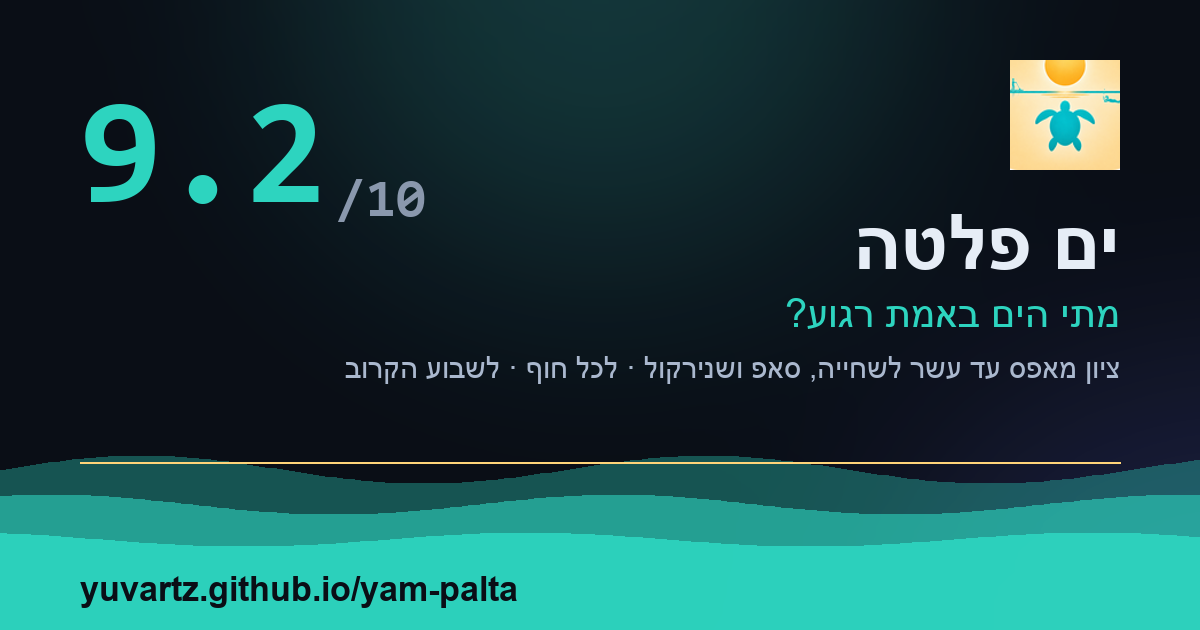
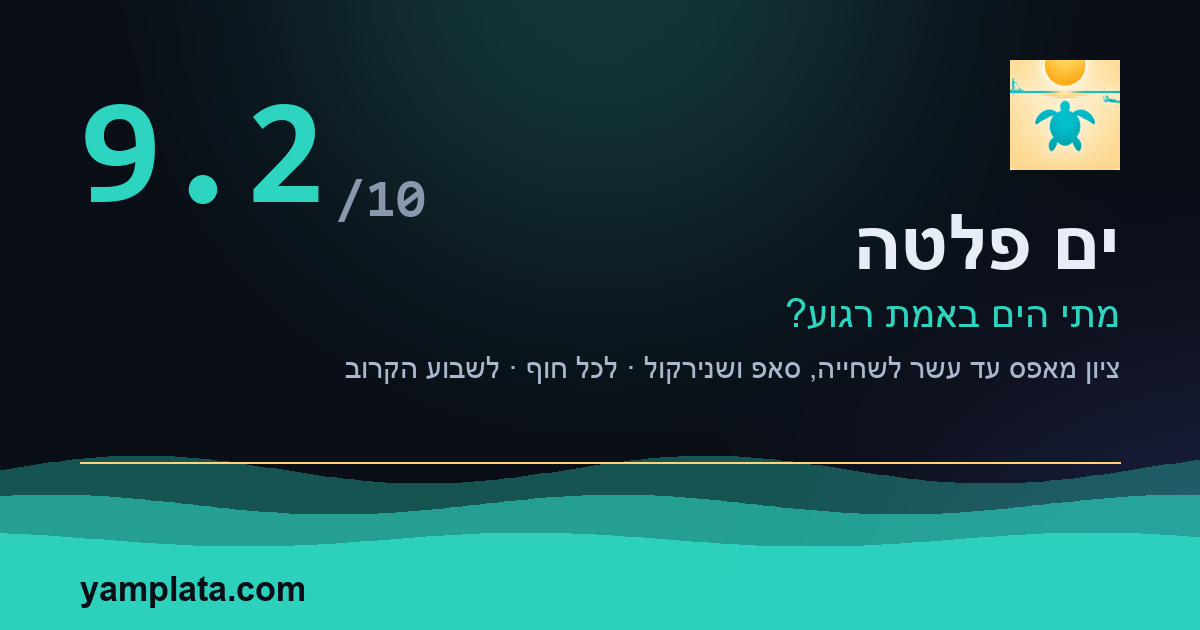
Move to yamplata.com: CNAME, canonical/OG/JSON-LD, sitemap, robots, manifest id, stamp text, og-image
scripts/set-domain.py yamplata.com applied (script now skips removed files);
Worker APP_URL/ALLOWED_ORIGINS updated for the new origin; build/SW v16.

Changed region(s): [[0.0925, 0.9048, 0.4317, 0.9651]]

diff --git a/docs/index.html b/docs/index.html
@@ -6,7 +6,7 @@
   <title>ים פלטה — מתי הים באמת רגוע? מדד שחייה לחופי ישראל</title>
   <meta name="description" content="ים פלטה: מדד 0–10 שאומר אם הים שטוח ורגוע לשחייה, סאפ ושנירקול — עכשיו ובשבוע הקרוב. תחזית גלים, רוח, טמפ׳ מים, מצוף חדרה ודיווחי מדוזות לכל חוף בישראל, סיני ויוון." />
   <meta name="keywords" content="ים פלטה, ים שטוח, תחזית ים, גלים, שחייה בים, סאפ, שנירקול, טמפרטורת מים, מדוזות, תל אביב, חוף" />
-  <link rel="canonical" href="https://yuvartz.github.io/yam-palta/" />
+  <link rel="canonical" href="https://yamplata.com/" />
   <meta name="color-scheme" content="dark" />
 
   <meta property="og:site_name" content="ים פלטה" />
@@ -14,17 +14,17 @@
   <meta property="og:title" content="ים פלטה — מתי הים באמת רגוע?" />
   <meta property="og:description" content="מדד 0–10 שאומר אם הים שטוח מספיק לשחייה, סאפ ושנירקול — עכשיו ובשבוע הקרוב, לכל חוף בישראל." />
   <meta property="og:type" content="website" />
-  <meta property="og:url" content="https://yuvartz.github.io/yam-palta/" />
-  <meta property="og:image" content="https://yuvartz.github.io/yam-palta/og-image.png" />
+  <meta property="og:url" content="https://yamplata.com/" />
+  <meta property="og:image" content="https://yamplata.com/og-image.png" />
   <meta property="og:image:width" content="1200" />
   <meta property="og:image:height" content="630" />
   <meta property="og:image:alt" content="ים פלטה — מדד הפלטה: האם הים רגוע לשחייה" />
   <meta name="twitter:card" content="summary_large_image" />
   <meta name="twitter:title" content="ים פלטה — מתי הים באמת רגוע?" />
   <meta name="twitter:description" content="מדד 0–10 שאומר אם הים שטוח מספיק לשחייה, סאפ ושנירקול — עכשיו ובשבוע הקרוב." />
-  <meta name="twitter:image" content="https://yuvartz.github.io/yam-palta/og-image.png" />
+  <meta name="twitter:image" content="https://yamplata.com/og-image.png" />
   <script type="application/ld+json">
-  {"@context":"https://schema.org","@type":"WebApplication","name":"ים פלטה","alternateName":"Yam Palata","url":"https://yuvartz.github.io/yam-palta/","applicationCategory":"WeatherApplication","operatingSystem":"Any","inLanguage":"he","description":"מדד 0–10 שאומר אם הים רגוע מספיק לשחייה, סאפ ושנירקול לאורך חופי ישראל, סיני ויוון.","offers":{"@type":"Offer","price":"0","priceCurrency":"ILS"}}
+  {"@context":"https://schema.org","@type":"WebApplication","name":"ים פלטה","alternateName":"Yam Palata","url":"https://yamplata.com/","applicationCategory":"WeatherApplication","operatingSystem":"Any","inLanguage":"he","description":"מדד 0–10 שאומר אם הים רגוע מספיק לשחייה, סאפ ושנירקול לאורך חופי ישראל, סיני ויוון.","offers":{"@type":"Offer","price":"0","priceCurrency":"ILS"}}
   </script>
 
   <link rel="manifest" href="manifest.json" />
@@ -811,7 +811,7 @@
     </div>
   </div>
 
-  <script src="palata.js?v=15"></script>  <!-- query = build: fresh HTML never runs a stale cached palata.js -->
+  <script src="palata.js?v=16"></script>  <!-- query = build: fresh HTML never runs a stale cached palata.js -->
   <script>
   const App = (() => {
     "use strict";
@@ -2397,7 +2397,7 @@
       x.direction = "ltr"; x.textAlign = "left";
       if (badge) { x.save(); x.beginPath(); x.arc(bx + bsz / 2, by - bsz / 2 + 4 * base, bsz / 2, 0, Math.PI * 2); x.clip(); x.drawImage(badge, bx, by - bsz + 4 * base, bsz, bsz); x.restore(); }
       x.font = `800 ${Math.round(24 * base)}px 'JetBrains Mono', Consolas, monospace`; x.fillStyle = "#2dd4bf"; x.fillText("YAM PALATA", bx + bsz + 12 * base, by - 14 * base);
-      x.font = `500 ${Math.round(17 * base)}px Heebo, Arial, sans-serif`; x.fillStyle = "rgba(230,237,246,.5)"; x.fillText("yuvartz.github.io/yam-palta", bx + bsz + 12 * base, by + 8 * base);
+      x.font = `500 ${Math.round(17 * base)}px Heebo, Arial, sans-serif`; x.fillStyle = "rgba(230,237,246,.5)"; x.fillText("yamplata.com", bx + bsz + 12 * base, by + 8 * base);
     }
     function photoDims(img) {
       const iw = img.naturalWidth || img.width, ih = img.naturalHeight || img.height;   // HTMLImageElement or ImageBitmap
@@ -2436,7 +2436,7 @@
     }
     const pad2 = pad;
     // Environment line for error reports: build, OS, file facts.
-    const BUILD = "v15";
+    const BUILD = "v16";
     function camEnv(file, extra) {
       const ua = navigator.userAgent, ios = ua.match(/OS (\d+)_(\d+)/), sfv = ua.match(/Version\/(\d+(?:\.\d+)?)/);
       const os = ios ? `iOS ${ios[1]}.${ios[2]}` : /Android/.test(ua) ? "Android" : "desktop";

diff --git a/docs/sw.js b/docs/sw.js
@@ -11,7 +11,7 @@
 //   • Google Fonts: cache-first (immutable files).
 // Bump VERSION on any shell change — activate cleans older yp-* caches (only ours: Cache Storage
 // is shared by every project on this GitHub Pages origin).
-const VERSION = "v15";
+const VERSION = "v16";
 const PREFIX = "yp-";
 const SHELL_CACHE = `${PREFIX}shell-${VERSION}`;
 const API_CACHE = `${PREFIX}api-${VERSION}`;

diff --git a/scripts/set-domain.py b/scripts/set-domain.py
@@ -13,12 +13,13 @@ edits = {
     "docs/index.html": [(OLD_URL, NEW_URL), (OLD_HOST_PATH, NEW_HOST)],
     "docs/sitemap.xml": [(OLD_URL, NEW_URL)],
     "docs/robots.txt": [(OLD_URL, NEW_URL)],
-    "scripts/send-push.mjs": [(OLD_URL, NEW_URL)],
     "scripts/build-og-image.py": [(OLD_HOST_PATH, NEW_HOST)],
     "README.md": [(OLD_URL, NEW_URL)],
 }
 for rel, pairs in edits.items():
-    p = os.path.join(root, rel); s = io.open(p, encoding="utf-8").read(); n = 0
+    p = os.path.join(root, rel)
+    if not os.path.exists(p): print(f"{rel}: missing, skipped"); continue
+    s = io.open(p, encoding="utf-8").read(); n = 0
     for a, b in pairs: n += s.count(a); s = s.replace(a, b)
     io.open(p, "w", encoding="utf-8", newline="\n").write(s); print(f"{rel}: {n} replacement(s)")
 io.open(os.path.join(root, "docs", "CNAME"), "w", newline="\n").write(new + "\n"); print("docs/CNAME written")

diff --git a/scripts/build-og-image.py b/scripts/build-og-image.py
@@ -65,7 +65,7 @@ rtext(200, t1, title_font, (230, 237, 246))
 rtext(290, t2, sub_font, (45, 212, 191))
 rtext(350, t3, ImageFont.truetype(FONT_R, 30), (170, 184, 206))
 # url
-d.text((80, 570), "yuvartz.github.io/yam-palta", font=tag_font, fill=(10, 14, 22))
+d.text((80, 570), "yamplata.com", font=tag_font, fill=(10, 14, 22))
 
 img.save(OUT, optimize=True)
 print("wrote", OUT, img.size)

diff --git a/docs-internal/launch-steps.md b/docs-internal/launch-steps.md
@@ -17,7 +17,7 @@
    (Proxy OFF חשוב: GitHub מנפיק את תעודת ה-HTTPS בעצמו ולא יצליח דרך הפרוקסי.)
 3. **תגיד לי "הדומיין נרשם"** — אני מריץ `python scripts/set-domain.py yamplata.com` (מחליף את כל 12 המקומות, כותב `docs/CNAME`, מייצר מחדש את תמונת השיתוף), מקמט ודוחף.
 4. GitHub → הריפו `Yuvartz/yam-palta` → **Settings → Pages**: ב-Custom domain כתוב `yamplata.com` → Save. חכה עד שה-✓ DNS check successful מופיע (דקות עד שעה), ואז סמן **Enforce HTTPS**.
-5. בדיקה: `https://yamplata.com` נפתח, `https://yuvartz.github.io/yam-palta/` מפנה אליו אוטומטית, `https://www.yamplata.com` מפנה גם.
+5. בדיקה: `https://yamplata.com` נפתח, `https://yamplata.com/` מפנה אליו אוטומטית, `https://www.yamplata.com` מפנה גם.
 6. אחרי המעבר: להתקין מחדש את האפליקציה בטלפון (הכתובת החדשה = אפליקציה חדשה מבחינת הטלפון).
 
 ## שלב 2 — סטטיסטיקה: GoatCounter (5 דקות, חינם)

diff --git a/README.md b/README.md
@@ -3,7 +3,7 @@
 **מתי הים באמת רגוע?** אפליקציית ווב (PWA) בעברית שעונה על השאלה האחת שחשובה לשחיינים,
 סאפיסטים ואנשי ים: האם עכשיו (או מחר) יש "ים פלטה" — ים שטוח ורגוע.
 
-**כתובת:** https://yuvartz.github.io/yam-palta/
+**כתובת:** https://yamplata.com/
 
 ## מה יש בפנים
 
